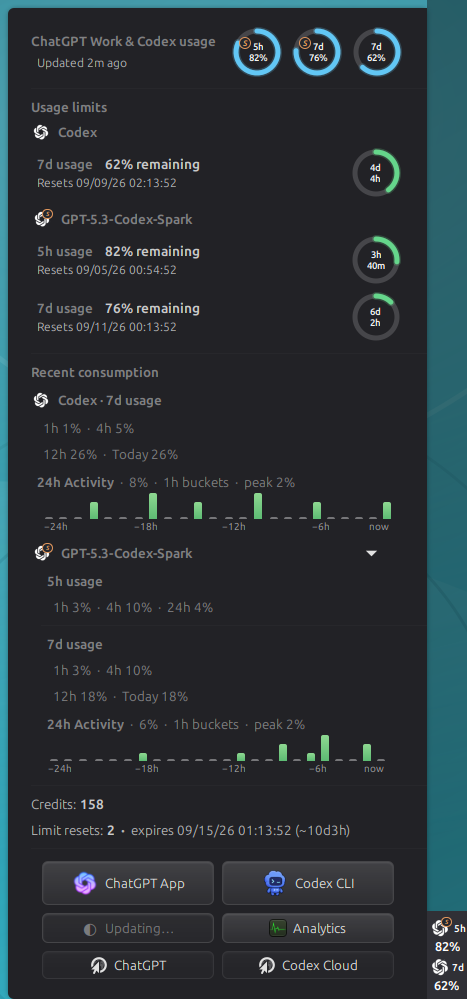
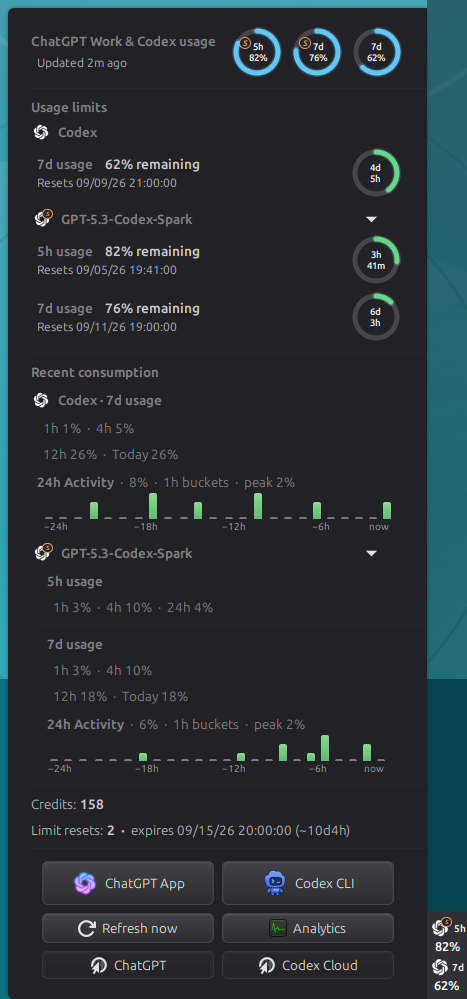
Quiet unused Spark quotas and release v0.3.10 (#38)

diff --git a/applet.js b/applet.js
@@ -19,6 +19,7 @@ const St = imports.gi.St;
 const Clutter = imports.gi.Clutter;
 const Pango = imports.gi.Pango;
 const Cairo = imports.cairo;
+const Atk = imports.gi.Atk;
 
 const UsageFormat = require("./usage-format");
 
@@ -99,6 +100,7 @@ class ChatGptUsageApplet extends Applet.Applet {
         this._updatedLabel = null;
         this._refreshSpinnerFrame = 0;
         this._historySubmenus = [];
+        this._limitSections = [];
         this._actionFrame = null;
         this._actionWidthFrame = null;
         this._actionColumn = null;
@@ -318,6 +320,11 @@ class ChatGptUsageApplet extends Applet.Applet {
                 this.menu.actor.translation_x = 0;
             }
             this._openActiveSparkHistory();
+            if (!this.menu.isOpen) {
+                for (const section of this._limitSections) {
+                    section.setExpanded(UsageFormat.hasQuotaUsage(section.limit.windows));
+                }
+            }
             const result = this._menuOpenOriginal(animate);
             if (this._isRightPanel) {
                 this._lockRightPanelPopupLayoutWidth();
@@ -702,6 +709,9 @@ class ChatGptUsageApplet extends Applet.Applet {
         if (!this.menu) return;
         const wasOpen = this.menu.isOpen;
         const expandedSubmenus = new Set();
+        const limitStates = new Map(
+            this._limitSections.map(section => [section.limit.id, section.expanded])
+        );
         if (wasOpen) this.actor.grab_key_focus();
         this._stopResetExpiryBreathing();
         this._resetExpiryBreathingLabels = [];
@@ -717,6 +727,7 @@ class ChatGptUsageApplet extends Applet.Applet {
         this._refreshSpinnerLabel = null;
         this._updatedLabel = null;
         this._historySubmenus = [];
+        this._limitSections = [];
         this._actionFrame = null;
         this._actionWidthFrame = null;
         this._actionColumn = null;
@@ -736,6 +747,15 @@ class ChatGptUsageApplet extends Applet.Applet {
             usageTitle.actor.style = "padding-bottom: 2px;";
             const showLimitLabels = limits.length > 1;
             for (const limit of limits) {
+                if (this._modelBadge(limit) === "S") {
+                    this._addCollapsibleLimit(
+                        limit,
+                        wasOpen && limitStates.has(limit.id)
+                            ? limitStates.get(limit.id)
+                            : UsageFormat.hasQuotaUsage(limit.windows)
+                    );
+                    continue;
+                }
                 if (showLimitLabels) {
                     this._addLimitHeading(limit);
                 }
@@ -845,6 +865,14 @@ class ChatGptUsageApplet extends Applet.Applet {
         this.menu.addMenuItem(item);
     }
 
+    _quotaRingOpacity(window) {
+        if (this._modelBadge(window) !== "S") return 255;
+        const limit = (this._snapshot.limits || []).find(
+            candidate => candidate.id === window.limitId
+        );
+        return limit && !UsageFormat.hasQuotaUsage(limit.windows) ? 128 : 255;
+    }
+
     _createQuotaRing(window, size = QUOTA_RING_SIZE) {
         const actor = new St.Widget({
             layout_manager: new Clutter.BinLayout(),
@@ -852,12 +880,15 @@ class ChatGptUsageApplet extends Applet.Applet {
             height: size
         });
         const area = new St.DrawingArea({ width: size, height: size });
+        const opacity = this._quotaRingOpacity(window);
+        area.opacity = opacity;
         const model = UsageFormat.buildQuotaIndicator(window);
         const badgeText = this._modelBadge(window);
         const label = new St.Label({
             text: `${model.durationLabel}\n${model.percentLabel}`,
             x_align: Clutter.ActorAlign.CENTER,
-            y_align: Clutter.ActorAlign.CENTER
+            y_align: Clutter.ActorAlign.CENTER,
+            opacity
         });
         label.translation_x = badgeText ? 2 : 0;
         label.clutter_text.set_line_alignment(Pango.Alignment.CENTER);
@@ -888,6 +919,7 @@ class ChatGptUsageApplet extends Applet.Applet {
             badge.style = this._modelBadgeStyle(
                 size < QUOTA_RING_SIZE ? 50 : 60
             );
+            badge.opacity = opacity < 255 ? 204 : 255;
             badge.translation_x = size < QUOTA_RING_SIZE ? 6 : 8;
             badge.translation_y = size < QUOTA_RING_SIZE ? 8 : 11;
             actor.add_child(badge);
@@ -950,12 +982,13 @@ class ChatGptUsageApplet extends Applet.Applet {
         row.add_child(countdown);
         item.addActor(row, { expand: true, span: -1 });
         this.menu.addMenuItem(item);
+        return item;
     }
 
-    _addIconHeading(limit, text, menu = this.menu) {
+    _addIconHeading(limit, text, menu = this.menu, collapsible = false) {
         const item = new PopupMenu.PopupBaseMenuItem({
-            reactive: false,
-            activate: false
+            reactive: collapsible,
+            activate: collapsible
         });
         const row = new St.BoxLayout({
             vertical: false,
@@ -969,13 +1002,59 @@ class ChatGptUsageApplet extends Applet.Applet {
         });
         label.style = "font-weight: bold;";
         row.add_child(label);
-        item.addActor(row, { expand: true, span: -1 });
+        item.addActor(row, { expand: !collapsible, span: collapsible ? 1 : -1 });
+        if (collapsible) {
+            label.opacity = 128;
+            item.actor.style = `padding-right: ${POPUP_RIGHT_INSET}px;`;
+            const arrowBin = new St.Bin({ x_align: St.Align.END });
+            item.addActor(arrowBin, { expand: true, span: -1, align: St.Align.END });
+            item.arrow = PopupMenu.arrowIcon(St.Side.RIGHT);
+            item.arrow.set_pivot_point(0.5, 0.5);
+            item.arrow.translation_x = POPUP_SUBMENU_ARROW_OFFSET;
+            arrowBin.child = item.arrow;
+            item.actor.label_actor = label;
+        }
         menu.addMenuItem(item);
         return item;
     }
 
     _addLimitHeading(limit) {
         this._addIconHeading(limit, limit.label || limit.id);
+    }
+
+    _addCollapsibleLimit(limit, expanded) {
+        const heading = this._addIconHeading(
+            limit, limit.label || limit.id, this.menu, true
+        );
+        // Keep the original rows in the same menu: a nested submenu would
+        // introduce theme padding and change the countdown/chart alignment.
+        const rows = limit.windows.map(window => this._addLimitWindowItem(window));
+        const section = {
+            limit,
+            heading,
+            rows,
+            expanded: false,
+            setExpanded: open => {
+                section.expanded = open;
+                for (const row of rows) row.actor.visible = open;
+                heading.arrow.rotation_angle_z = open ? 90 : 0;
+                if (open) heading.actor.add_accessible_state(Atk.StateType.EXPANDED);
+                else heading.actor.remove_accessible_state(Atk.StateType.EXPANDED);
+            }
+        };
+        heading.actor.add_accessible_state(Atk.StateType.EXPANDABLE);
+        // The native base activation emits the menu-closing signal. A
+        // disclosure must instead keep the popup open for mouse and keyboard.
+        heading.activate = () => section.setExpanded(!section.expanded);
+        heading.actor.connect("key-press-event", (actor, event) => {
+            const key = event.get_key_symbol();
+            const rtl = actor.get_direction() === St.TextDirection.RTL;
+            if (key !== Clutter.KEY_Left && key !== Clutter.KEY_Right) return false;
+            section.setExpanded((key === Clutter.KEY_Right) !== rtl);
+            return true;
+        });
+        section.setExpanded(expanded);
+        this._limitSections.push(section);
     }
 
     _createResetCountdown(window) {

diff --git a/tests/test-spark-disclosure.js b/tests/test-spark-disclosure.js
@@ -1,0 +1,98 @@
+/* global imports */
+
+// Exercise the production disclosure and rebuild methods without a desktop.
+// Real actor allocation and input are covered by isolated Cinnamon captures.
+const GLib = imports.gi.GLib;
+const ByteArray = imports.byteArray;
+function read(path) {
+    const [ok, contents] = GLib.file_get_contents(path);
+    if (!ok) throw new Error(`Cannot read ${path}`);
+    return ByteArray.toString(contents);
+}
+const localModule = { exports: {} };
+new Function("module", "imports", read("usage-format.js"))(localModule, imports);
+const Clutter = { KEY_Left: 1, KEY_Right: 2 };
+const Atk = { StateType: { EXPANDABLE: 1, EXPANDED: 2 } };
+const AppletClass = new Function("imports", "require",
+    `${read("applet.js")}\nreturn ChatGptUsageApplet;`
+)(
+    {
+        ui: {
+            applet: { Applet: class {} },
+            popupMenu: { PopupSeparatorMenuItem: class {} }
+        },
+        misc: {},
+        gi: { GLib, Clutter, Atk, St: { TextDirection: { RTL: 1 } } }
+    },
+    () => localModule.exports
+);
+
+function assert(condition, message) {
+    if (!condition) throw new Error(message);
+}
+
+const applet = Object.create(AppletClass.prototype);
+Object.assign(applet, {
+    actor: { grab_key_focus() {} },
+    menu: { isOpen: false, removeAll() {}, addMenuItem() {} },
+    _historySubmenus: [],
+    _limitSections: [],
+    _snapshot: { limits: [{ id: "spark", label: "GPT-5.3-Codex-Spark",
+        windows: [{ usedPercent: 0 }, { usedPercent: 0 }] }] },
+    _addIconHeading() {
+        const states = new Set();
+        const heading = { arrow: {}, actor: {
+            add_accessible_state(state) { states.add(state); },
+            remove_accessible_state(state) { states.delete(state); },
+            connect(signal, callback) { heading.onKey = callback; },
+            get_direction() { return 0; }
+        }, states };
+        return heading;
+    },
+    _addLimitWindowItem() { return { actor: { visible: true } }; },
+    _addSectionHeading() { return { actor: {} }; }
+});
+for (const method of ["_stopResetExpiryBreathing", "_stopRefreshSpinner",
+    "_addHeaderItem", "_addHistoryItems", "_addCreditItems", "_addLaunchButtons"]) {
+    applet[method] = () => {};
+}
+
+applet._rebuildMenu();
+let section = applet._limitSections[0];
+const sparkRing = { limitId: "spark", limitLabel: "GPT-5.3-Codex-Spark" };
+assert(applet._quotaRingOpacity(sparkRing) === 128,
+    "Unused Spark header rings must be muted");
+assert(applet._quotaRingOpacity({ limitId: "codex" }) === 255,
+    "Codex header rings must retain their normal opacity");
+assert(!section.expanded && section.rows.every(row => !row.actor.visible),
+    "Unused Spark must start collapsed with both rows hidden");
+assert(section.heading.states.has(Atk.StateType.EXPANDABLE),
+    "Assistive technology must recognize the disclosure");
+applet.menu.isOpen = true;
+section.heading.activate();
+assert(section.expanded && applet.menu.isOpen &&
+    section.heading.states.has(Atk.StateType.EXPANDED),
+"Activating Spark must expose rows without closing the popup");
+applet._rebuildMenu();
+section = applet._limitSections[0];
+assert(section.expanded, "Refreshing an open popup must preserve manual expansion");
+section.heading.onKey(section.heading.actor, { get_key_symbol: () => Clutter.KEY_Left });
+assert(!section.expanded, "Left arrow must collapse the section");
+section.heading.onKey(section.heading.actor, { get_key_symbol: () => Clutter.KEY_Right });
+assert(section.expanded, "Right arrow must expand the section");
+applet.menu.isOpen = false;
+applet._rebuildMenu();
+assert(!applet._limitSections[0].expanded,
+    "A fresh opening must restore the unused default");
+applet._snapshot.limits[0].windows[1].usedPercent = 0.001;
+applet._rebuildMenu();
+assert(applet._quotaRingOpacity(sparkRing) === 255,
+    "Any positive Spark usage must restore both header rings");
+assert(applet._limitSections[0].expanded,
+    "Positive weekly use must open Spark without recent-history data");
+applet.menu.isOpen = true;
+applet._limitSections[0].heading.activate();
+applet._rebuildMenu();
+assert(!applet._limitSections[0].expanded,
+    "Refreshing must also preserve manual collapse of an active quota");
+print("Spark disclosure regression tests passed.");

diff --git a/tests/test-usage-format.js b/tests/test-usage-format.js
@@ -13,6 +13,18 @@ new Function("module", "exports", ByteArray.toString(contents))(
 );
 const UsageFormat = localModule.exports;
 
+for (const [windows, expected, message] of [
+    [null, false, "Missing quota windows stay collapsed"],
+    [[], false, "Empty quota windows stay collapsed"],
+    [[{ usedPercent: 0 }, { usedPercent: 0 }], false, "Unused Spark stays collapsed"],
+    [[{ usedPercent: 0.001 }, { usedPercent: 0 }], true, "Fractional 5h use opens Spark"],
+    [[{ usedPercent: 0 }, { usedPercent: 1 }], true, "Weekly-only use opens Spark"],
+    [[{}, { usedPercent: null }, { usedPercent: NaN }], false, "Unknown is not usage"],
+    [[{ usedPercent: -1 }, { usedPercent: Infinity }], false, "Invalid is not usage"]
+]) {
+    assertEqual(UsageFormat.hasQuotaUsage(windows), expected, message);
+}
+
 function assertEqual(actual, expected, message) {
     if (actual !== expected) {
         throw new Error(`${message}: expected ${expected}, got ${actual}`);

diff --git a/usage-format.js b/usage-format.js
@@ -8,6 +8,12 @@ function clamp(value, minimum, maximum) {
     return Math.min(maximum, Math.max(minimum, value));
 }
 
+function hasQuotaUsage(windows) {
+    return (windows || []).some(window =>
+        Number.isFinite(window.usedPercent) && window.usedPercent > 0
+    );
+}
+
 function summarizeWindows(limits) {
     const summaries = new Map();
 
@@ -723,6 +729,7 @@ function formatAppTooltip(installed, version = null, prefix = "", releaseDate = 
 }
 
 module.exports = {
+    hasQuotaUsage,
     summarizeWindows,
     listQuotaWindows,
     selectPanelWindows,

diff --git a/README.md b/README.md
@@ -24,11 +24,17 @@
 | ---------------------------------------------------------------------------------------------------------- | -------------------------------------------------------------------------------------------------------------- |
 | ![Spark and Codex limits in a horizontal top bar with both panel indicators](docs/model-limits/topbar.png) | ![Spark and Codex limits in a vertical panel with both panel indicators](docs/model-limits/vertical-panel.png) |
 
-| Full 24-hour usage overview                                                                                              | Compact Spark histories                                                                                                                     |
+| Default overview with unused Spark collapsed                                                                             | Spark quotas and recent activity                                                                                                            |
 | ------------------------------------------------------------------------------------------------------------------------ | ------------------------------------------------------------------------------------------------------------------------------------------- |
 | ![Usage menu with both model-specific panel indicators and a full hourly demo history](docs/model-limits/usage-menu.png) | ![Expanded Spark 5h and 7d demo histories sharing one activity chart with the panel anchor visible](docs/model-limits/usage-menu-spark.png) |
 
 <p align="center"><sub>Public usage-menu captures keep the live panel edge and applet indicators visible as the visual anchor; general dual-model examples show both model-specific indicators.</sub></p>
+
+<p align="center"><strong>Default overview on a horizontal panel</strong></p>
+<p align="center">
+  <img src="docs/model-limits/usage-menu-horizontal.png" width="456" alt="Horizontal-panel default with muted unused Spark rings and both Spark sections collapsed">
+</p>
+<p align="center"><sub>Unused Spark stays compact on either panel orientation; positive quota usage opens the upper section and restores its header rings.</sub></p>
 
 <p align="center"><strong>Conditional four-ring quota state</strong></p>
 <p align="center">
@@ -68,9 +74,12 @@
   can be selected in the popup and is consumed only after an explicit native
   confirmation; a zero reset count stays compact and shows only `0`.
 - Detects dedicated GPT-5.3-Codex-Spark 5h and 7d quotas automatically when
-  they are enabled for the signed-in account; model-specific limits stay in
-  the popup by default, carry a distinct amber marker and can optionally be
-  added to the panel.
+  they are enabled for the signed-in account. The Spark quota section starts
+  collapsed when neither window has consumption and opens when either window
+  has positive usage. Click its heading or use the keyboard to toggle it;
+  refreshes preserve that choice while the popup is open. Both Spark header
+  rings are muted while neither window is in use. Spark carries a
+  distinct amber marker and can optionally be added to the panel.
 - Shows paired circular available-quota and reset-countdown indicators for
   every active 5h and 7d window without polling the API more often. Untouched
   100%-remaining cycles stay at their exact full duration until usage begins;

diff --git a/CHANGELOG.md b/CHANGELOG.md
@@ -4,6 +4,19 @@
 
 - Nothing yet.
 
+## 0.3.10 — 2026-09-05
+
+- Collapse the upper Spark quota rows by default when both windows have no
+  consumption; open them when either window has positive usage, including
+  fractional usage. The heading can be toggled with the mouse or keyboard.
+- Mute both Spark header rings when neither quota window has consumption and
+  restore their normal opacity as soon as either window is in use.
+- Preserve a manual choice during an open-popup refresh and restore the
+  usage-based default on the next opening. Keep the existing quota rows,
+  countdown sizes and surrounding spacing unchanged.
+- Refresh the default and expanded Spark screenshots using isolated Cinnamon
+  sessions with horizontal and vertical panel geometry regression checks.
+
 ## 0.3.9 — 2026-09-04
 
 - Add the Codex icon to model-labelled recent-consumption headings and give
